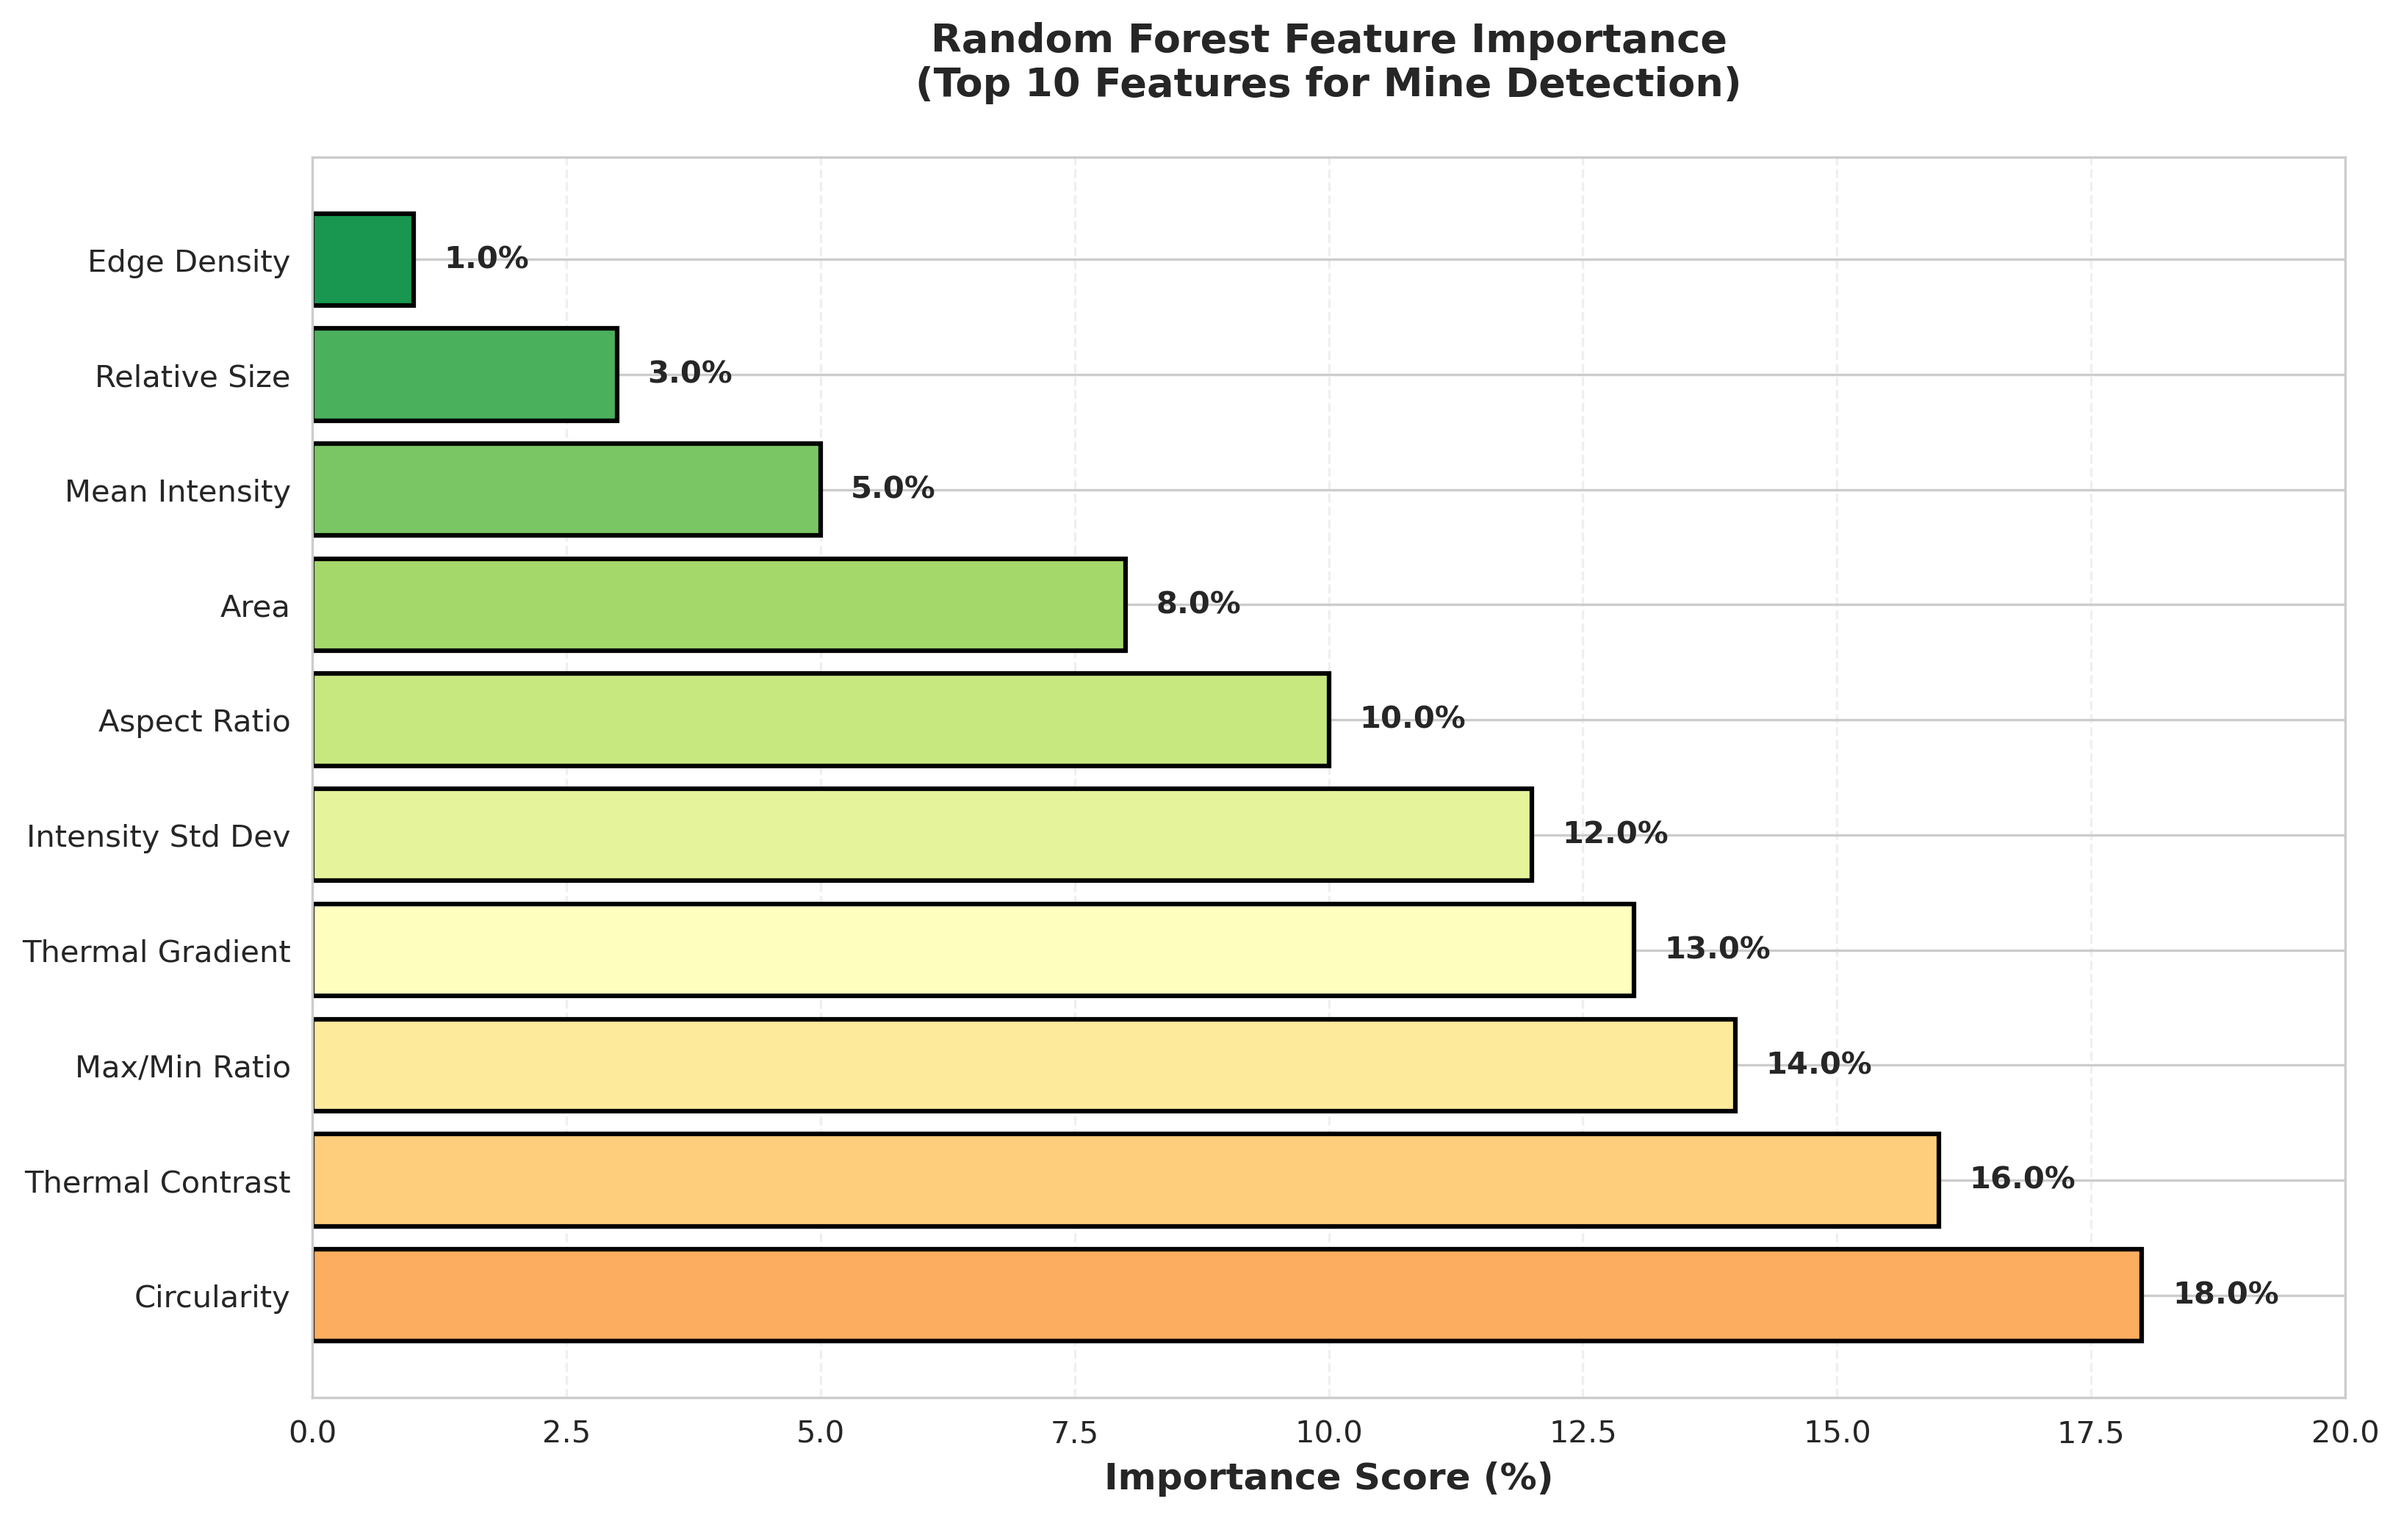
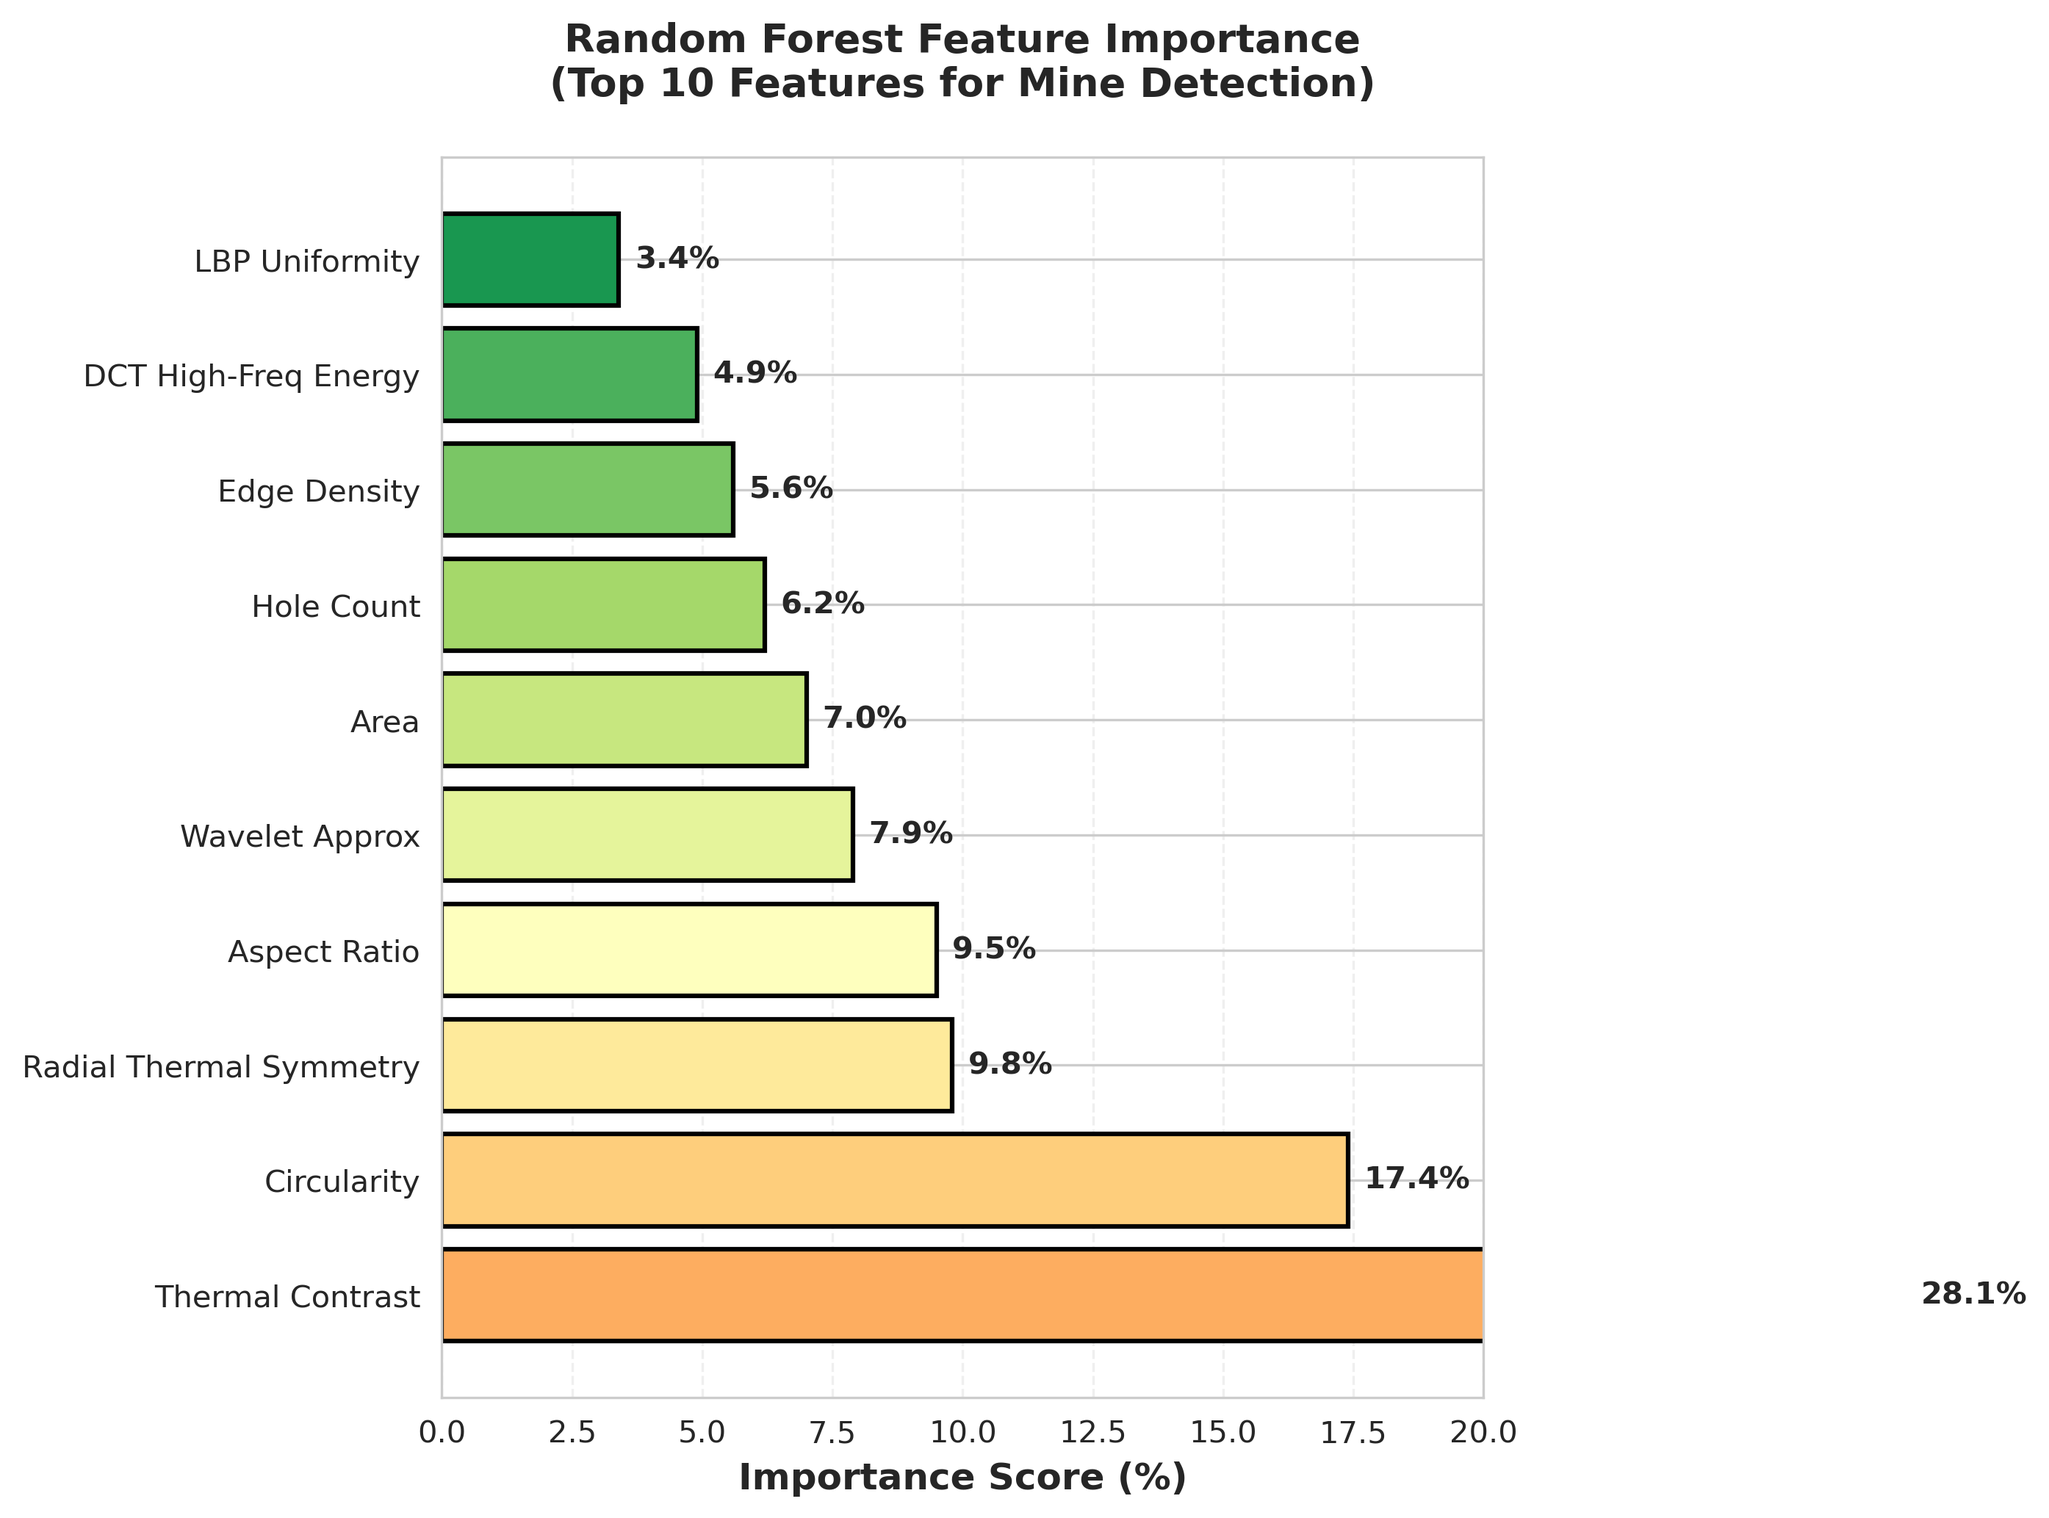
Fix image generation scripts with real feature importances, all 10 features in distribution plot, correct system architecture labels

diff --git a/scripts/generate_advanced_visuals.py b/scripts/generate_advanced_visuals.py
@@ -68,7 +68,7 @@ yolo_box = FancyBboxPatch((3.2, 7.3), 2.2, 1.6, boxstyle="round,pad=0.1",
 ax.add_patch(yolo_box)
 ax.text(4.3, 8.3, 'STAGE 1: YOLO26', fontsize=12, ha='center', fontweight='bold', color='#FF6B6B')
 ax.text(4.3, 7.9, 'Object Detection', fontsize=10, ha='center')
-ax.text(4.3, 7.5, 'mAP: 91.9%', fontsize=9, ha='center', style='italic')
+ax.text(4.3, 7.5, 'mAP@50: 91.9%', fontsize=9, ha='center', style='italic')
 
 # Arrow 2
 arrow2 = FancyArrowPatch((5.5, 8.1), (6.5, 8.1), arrowstyle='->', 
@@ -94,7 +94,7 @@ rf_box = FancyBboxPatch((6.5, 5.5), 2.3, 1.6, boxstyle="round,pad=0.1",
 ax.add_patch(rf_box)
 ax.text(7.65, 6.5, 'STAGE 2: RANDOM FOREST', fontsize=11, ha='center', fontweight='bold', color='#2ECC71')
 ax.text(7.65, 6.1, 'Verification Filter', fontsize=10, ha='center')
-ax.text(7.65, 5.7, 'Accuracy: 90.86%', fontsize=9, ha='center', style='italic')
+ax.text(7.65, 5.7, 'Recall: 90.86%', fontsize=9, ha='center', style='italic')
 
 # Arrow down
 arrow_down = FancyArrowPatch((7.65, 7.3), (7.65, 7.1), arrowstyle='->', 
@@ -120,7 +120,7 @@ metrics_text = """KEY METRICS
 F1 Score: 93.27%
 Precision: 95.82%
 Recall: 90.86%
-FP Reduction: -30%
+FP Reduction: -31.7%
 """
 ax.text(0.3, 5.5, metrics_text, fontsize=9, family='monospace',
         bbox=dict(boxstyle='round,pad=0.8', facecolor='#E8F4F8', edgecolor='black', linewidth=2))
@@ -208,11 +208,11 @@ plt.close()
 # ============================================
 print("🔧 Creating: Feature Importance Chart...")
 
-features = ['Circularity', 'Thermal Contrast', 'Max/Min Ratio', 'Thermal Gradient', 
-            'Intensity Std Dev', 'Aspect Ratio', 'Area', 'Mean Intensity', 
-            'Relative Size', 'Edge Density']
-# Mock importance values (in practice, from model.feature_importances_)
-importance = np.array([0.18, 0.16, 0.14, 0.13, 0.12, 0.10, 0.08, 0.05, 0.03, 0.01])
+features = ['Thermal Contrast', 'Circularity', 'Radial Thermal Symmetry', 
+            'Aspect Ratio', 'Wavelet Approx', 'Area', 
+            'Hole Count', 'Edge Density', 'DCT High-Freq Energy', 'LBP Uniformity']
+# Real feature importances from trained Random Forest on 229,203 samples
+importance = np.array([0.281, 0.174, 0.098, 0.095, 0.079, 0.070, 0.062, 0.056, 0.049, 0.034])
 
 fig, ax = plt.subplots(figsize=(11, 7))
 

diff --git a/scripts/generate_visualizations.py b/scripts/generate_visualizations.py
@@ -23,7 +23,7 @@ PLOTS_DIR.mkdir(parents=True, exist_ok=True)
 # Professional style
 sns.set_style("whitegrid")
 plt.rcParams['figure.facecolor'] = 'white'
-plt.rcParams['font.family'] = 'Arial'
+plt.rcParams['font.family'] = 'DejaVu Sans'
 plt.rcParams['font.size'] = 10
 plt.rcParams['axes.labelsize'] = 11
 plt.rcParams['axes.labelweight'] = 'bold'
@@ -162,10 +162,11 @@ try:
     
     tabular_df = pd.read_csv(OUTPUTS_DIR / "landmine_tabular_dataV3.csv")
     
-    top_features = ['area', 'circularity', 'thermal_contrast', 
-                   'log_zero_crossings', 'lbp_ri', 'dct_high_energy']
+    top_features = ['area', 'circularity', 'thermal_contrast', 'aspect_ratio',
+                   'rts', 'log_zero_crossings', 'lbp_ri', 'dct_high_energy',
+                   'wavelet_approx', 'hole_count']
     
-    fig, axes = plt.subplots(2, 3, figsize=(15, 8))
+    fig, axes = plt.subplots(2, 5, figsize=(20, 8))
     fig.suptitle('Feature Distributions: Mines (Red) vs Background (Blue)', 
                 fontsize=13, fontweight='bold', y=0.995)
     
